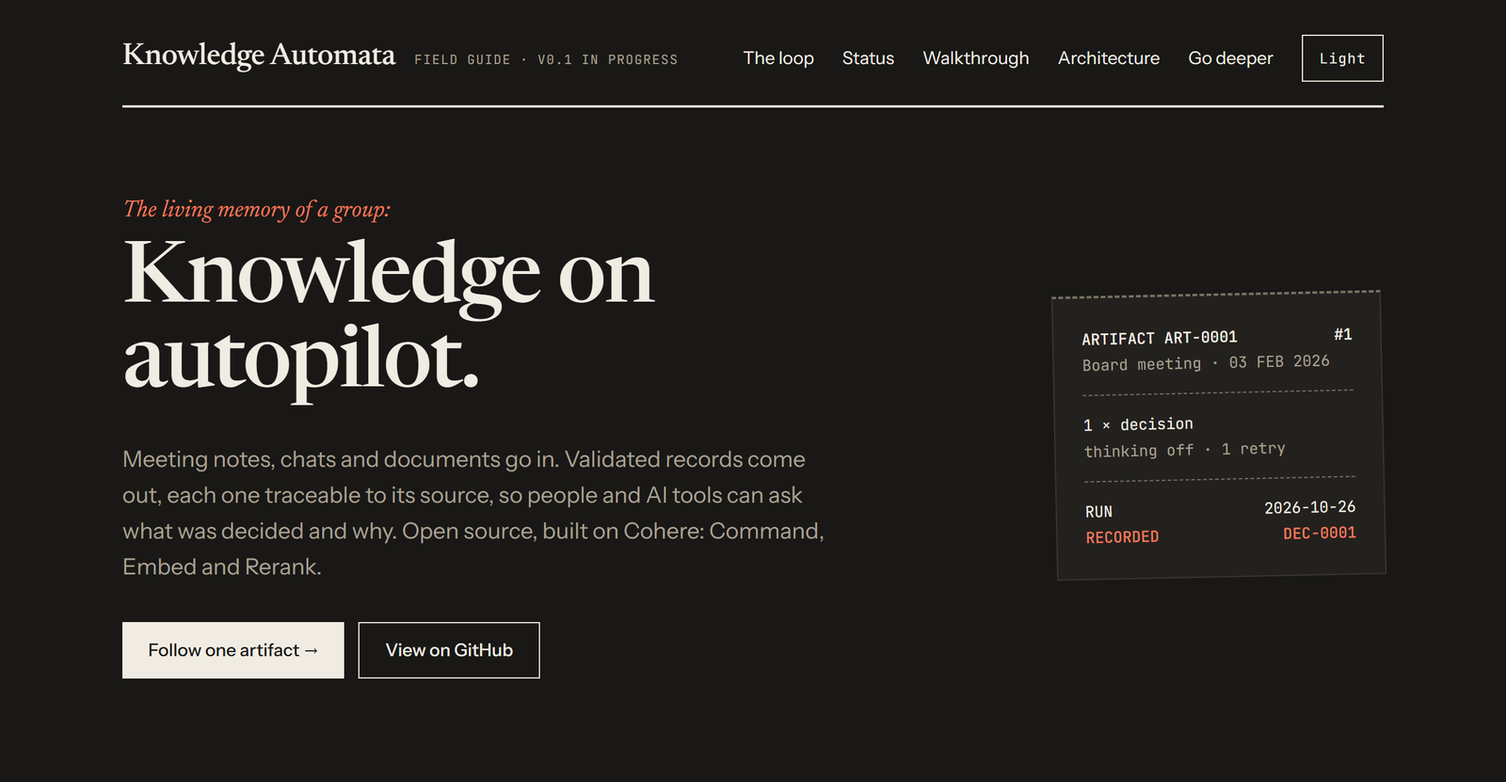
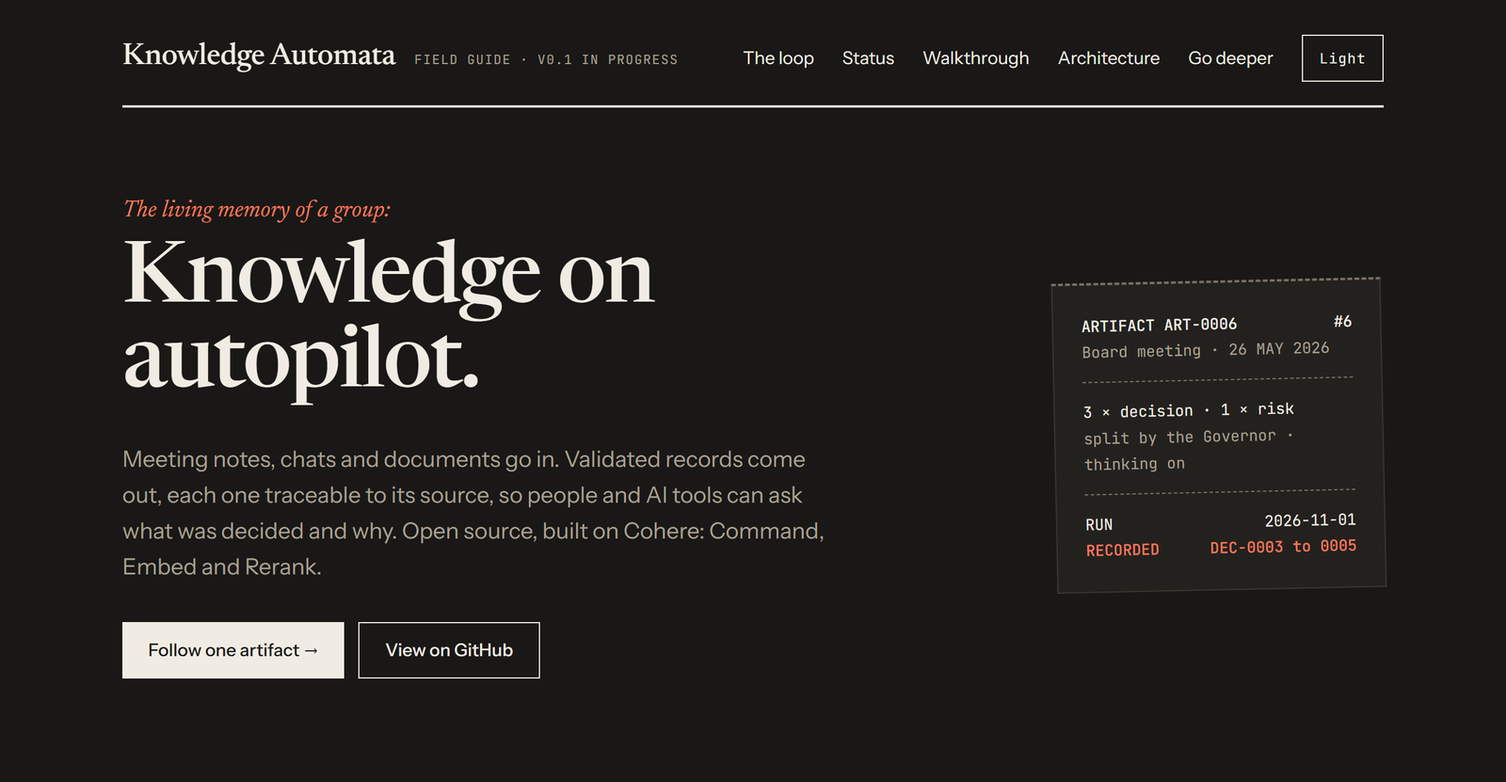
docs: retake the guide previews and update STATUS after the Governor (#16)

diff --git a/dev/STATUS.md b/dev/STATUS.md
@@ -6,7 +6,7 @@
 
 ## Current phase
 
-Handoffs 001 to 006 merged, the last as PR #11 (the Comparator, reconciliation). Handoff 007, the Governor (orchestrator), is complete on `feat/governor`, in three parts, 7A, 7B and 7C. Parts 7A and 7B are built and approved after Claude's and Miguel's reviews, each with a small fix commit, 951 tests passing offline. Part 7C, the real run on ART-0006 to ART-0008, is done and committed, and ADR-0018 is accepted. Next: Claude's review and diagram refresh, then the pull request.
+Handoffs 001 to 007 merged, the last as PR #15 (the Governor, orchestrator, squash merge `0dd0ed4`, 2026-11-01). Knowledge Automata now processes a whole meeting: the Governor finds every decision and risk, and each decision becomes a checked record. Next: handoff 008, the Risk Registrar, then the folder command, the evaluation set and the v0.1.0 release.
 
 ## Done
 
@@ -88,56 +88,57 @@ Handoffs 001 to 006 merged, the last as PR #11 (the Comparator, reconciliation).
     - Calls used: 28 of the 40 allowed (24 in the event log, 4 diagnostic). Rerank billed input tokens on every call, never search units. With thinking enabled, the Registrar used 1,519 to 1,670 output tokens per draft and the Comparator 192 to 1,149.
     - `views --check` and the full suite (733 tests) pass with the outputs committed. Tool feedback: piped output on Windows, raw versus billed input tokens, thinking length.
 
+- Handoff 007 merged as PR #15 (squash merge `0dd0ed4`, 2026-11-01), with its Copilot credits in `dev/costs.md` (2,801.6 for the three parts; 9,109.4 in total so far). Claude refreshed the diagrams (`docs/diagrams/01` to `04`, their copies in `README.md` and `docs/architecture.md`) and the guide (hero card ART-0006, the Governor built, the new figures) on the branch before the merge. How it went:
+  - Designed by Miguel and Claude on 2026-10-31 (voice session and chat) and written by Claude: `dev/handoffs/007-governor.md`, its inputs file, the prompts `governor.v1`, `governor-retry.v1` and `decision-registrar.v2`, the register definitions in `prompts/project-management/definitions/`, ADR-0018 (proposed) and an ADR-0011 amendment (a change that keeps every existing file valid is a minor schema version). Main decisions:
+    - The Governor finds decisions and risks; only decisions are sent on, and risk work orders are kept as not routed until the Risk Registrar exists.
+    - A work order is a register plus verified quotes; code builds its label from the first quote. `decision-registrar.v2` drafts the item a work order points to and carries the known prompt fixes.
+    - The checked work orders are saved per artifact before any draft (checkpointing), so a rerun after a provider error skips finished items and makes no new Governor call.
+    - `KA_GOVERNOR_MAX_ITEMS` (default 10) is a security control: above it nothing is drafted, the artifact is `held` for review, and `release` approves it.
+    - `process ARTIFACT_ID` replaces `record-decision`. No work orders means `processed` with zero records.
+    - Three parts, each ending green, so Copilot can stop after any of them while credits are low.
+  - The Governor spike (`runtime/diagnostics/spike_governor.py`, git-ignored), run by Miguel on 2026-10-31 with the real prompts, 17 calls in three rounds: every reply was valid JSON and every quote passed the evidence check. Round 1 (ART-0001 to ART-0008, and three `decision-registrar.v2` drafts) matched on 7 of 8 artifacts: ART-0004's rationale sentence came back as a second decision; the drafts invented no rationale or alternatives. A new prompt line fixed ART-0004 but dropped ART-0006's confirmation of `DEC-0003` (round 2); the narrowed line found every expected item on ART-0003, ART-0004 and ART-0006 (round 3). Details in `dev/handoffs/007-governor.md`, section 6.
+  - Part 7A, built by Copilot on 2026-11-01 after Miguel approved the plan, in five commits, 814 tests passing offline (all LLM calls faked); no pipeline, CLI or prompt change, so `record-decision` still uses `decision-registrar.v1`:
+    - Register definitions: `RegisterSpec.definition` names a versioned prompt file; both project-management registers point to theirs.
+    - The Governor reply schema (`schemas/core/governor-reply.v1.json`, the register enum set by `governor_schema`) and `validate_work_orders`: schema, every quote checked against the artifact, and no quote shared by two items of the same register (text-based, one quote containing another counts, so a decision repeated in a summary is caught).
+    - `core/work_orders.py`: `WorkOrder`, sorting by the earliest quote position in the artifact, numbering from 1, and `placeholder_label` (the first-listed quote, cut at a word boundary to at most 60 characters, plus `...`).
+    - `agents/checked_chat.py`: the call, check and retry loop, shared by the Registrars and the Governor. `tests/test_registrar.py` passes unchanged, and each attempt keeps its prompt version in `CallContext` as before. The Comparator keeps its own loop (technical debt).
+    - `agents/governor.py`: the Governor builds its system text by replacing `{registers}` with one block per register definition, and refuses a setup without the placeholder, a register without a definition, or a definition that does not match its spec. `find_work_orders` checks the artifact, calls once, retries once with the errors, and returns sorted work orders.
+    - The Decision Registrar with a work order: the user message adds the work order as JSON between `<work-order>` lines (every `<` escaped), and `validate_draft` requires a passing quote that matches a work order quote. Without a work order the message is byte-for-byte unchanged. A work order for another register is refused before any call.
+    - Review fixes (2026-11-01, one commit, 825 tests): a Governor reply over the schema's sanity bound of 100 items is reported as one short error (`$.items: 101 items, at most 100`) instead of jsonschema's message, which copied the whole reply into the errors and the retry prompt; a Registrar's prompt and work order mode go together (`Registrar.takes_work_order`), so giving a work order to `decision-registrar.v1`, or none to `v2`, raises before any call; a test pins the whole user message with a work order, including the `\u003c` escape; the Governor refuses an empty definition; `placeholder_label` strips surrounding quote marks, straight and typographic.
+  - Part 7B, built by Copilot on 2026-11-01 after Miguel approved the plan, in six commits, 949 tests passing offline (all LLM calls faked):
+    - Ledger entry schema 1.2: the `held` status (by `governor`; released to `accepted` by `operator`), a `run_id` on `processed`, `failed` and `held` steps, a `governor` block (model, prompt and definition versions, attempts, run ID, work orders per register, routed or not), and `work_order` on produced and rejected items. Every transition the pipeline makes is now by `governor`; `pipeline` stays valid in existing history. `failed` may list the records produced before the error. A later run keeps the existing `produced` and `rejected` items in place and appends new ones, and the store refuses a `failed` entry whose new `produced` list does not start with the old one. 1.0 and 1.1 entries still validate.
+    - The work orders file (`work-orders/<ID>.json`, `schemas/core/work-orders.v1.json`, `storage/work_order_store.py`): the run ID, `max_items` as it was, the Governor's versions and attempts, and each order with its state (`pending`, `recorded`, `rejected`, `not-routed`) and results. A recorded order may also carry a rejected list (rejected first, recorded on a rerun). The store refuses a stale file, changed evidence and a change to a `recorded` order.
+    - `process ARTIFACT_ID` replaces `record-decision`. The Governor runs once; its checked orders are saved before any draft; each routed order is drafted with `decision-registrar.v2`, compared and written, then its result is saved in the file (records, views, then the file); the Ledger is written at the end, its lists rebuilt from the file. A rerun reuses the file with no Governor call: from `accepted` only `pending` orders run, from `failed` or `processed` also `rejected` ones. Before any call, records ahead of the file (a crash after the records and before the order's result) are detected by the history count, and a Ledger left behind the file is rebuilt with no call. Exit codes: 0 when nothing is held or left rejected, 1 for held or a rejection, 2 for usage problems, 3 for a provider error.
+    - `KA_GOVERNOR_MAX_ITEMS` (default 10, `core/settings.py` shares the whole-number reader with the Comparator): more routed orders than the file's own `max_items`, and no order started, holds the artifact with no draft. `release` makes a held artifact `accepted` by `operator`, with no Sensor check and no read of its copy; the release covers only the file whose `run_id` was held.
+    - The `record-decision` tests moved to `tests/test_process.py`, with the section 5 scenarios added (several orders per artifact, interrupted runs, holds and releases).
+    - Docs: ADR-0006 and ADR-0015 amended, the architecture and README text, and the backlog. The Mermaid blocks still say `record-decision` and "planned Governor": Claude refreshes them.
+    - Review fixes (2026-11-01, one commit, 951 tests), from Claude's review of 7B:
+      - A rebuild of the Ledger from the work orders file exits 1, not 0, when an order is still rejected, by the same rule as a normal run.
+      - Without a work orders file, `process` refuses before any call when the Ledger entry shows a Governor run (records produced, a `governor` block, or a rejected item with `work_order`): "the work orders file is missing; restore it". A new Governor call could find other orders and record items twice. So deleting the file by hand after a release no longer leads to a new Governor run; the rule that a release covers only the file whose `run_id` was held stays, tested on `needs_hold`.
+      - The CLI docstring now says that rejected attempts print their validation errors, which may quote model output; the messages are unchanged, and a Later item in the backlog proposes printing paths and checks only.
+      - Stronger tests: the output hygiene test reaches a real hold and a Governor rejection on fresh artifacts, and removes a label only from its work order heading; the billing test runs two comparisons and checks every stage's totals against the event log.
+  - Part 7C, the real run, with Miguel's go on 2026-11-01. The three inbox files matched their SHA-256; ingest accepted ART-0006 to ART-0008 (no calls). Each artifact was processed with `process` and reported before the next one; outputs committed unedited (`feat: process ART-0006 to ART-0008 in the sample project`), details and tables in `examples/sample-project/README.md`.
+    - Timeouts first: `process ART-0006` stopped twice at the Governor call, which returned nothing within 60 s (run `19abb35e-b01e-4322-87ec-eef4d057be8b`) and then 180 s (`KA_LLM_TIMEOUT_SECONDS=180`, run `e8083665-5a93-415f-b341-3da571628b92`), about 12 minutes apart, with no incident on Cohere's status page. Both left ART-0006 `failed`, with nothing written.
+    - Diagnostic, with Miguel's go (throwaway scripts in `runtime/diagnostics/`, git-ignored): offline, the pipeline's Governor request matched the spike's except for the schema's top-level title and description, which the Registrar requests also send. Then 2 calls through the adapter only, outside the event log: a connectivity check (2.7 s, billed 13 input and 167 output tokens) and the same Governor request with a 600 s timeout (18.3 s, billed 1,267 input and 2,882 output tokens, 2,679 reasoning tokens; accepted, 4 work orders). Most likely a temporary slowdown at Cohere or on the network.
+    - Then, with `KA_LLM_TIMEOUT_SECONDS=180` for the rest of the run (environment only):
+      - ART-0006 (run `23feff57-1c1d-4cb7-83b7-107f174fd8c3`, 16 calls): 3 decision and 1 risk work orders, as expected. `DEC-0003` updated to revision 2 with no field filled (expected a reaffirmation: the known borderline), new `DEC-0004` (no rationale or alternatives, `decided_by` "the board") and `DEC-0005`, the risk not routed. Governor 17.4 s.
+      - ART-0007 (run `98b81324-173e-4c44-9e4c-43919265e5c0`, 17 calls): one work order per decision despite the summary section, each quoting both places. `DEC-0004` updated to revision 2 with rationale and alternatives (NFC), and also `decided_on` 2026-06-09, the tech sync's date instead of the board's 2026-05-26 (a finding); `DEC-0006` supersedes `DEC-0005`; new `DEC-0007`, whose draft needed the retry; the risk not routed. Governor 14.5 s; the slowest draft 27.0 s.
+      - ART-0008 (run `9e94307b-9b47-4a44-a7e1-8138cd6565c0`, 1 call): `processed` with zero records and an empty work orders file. Governor 2.8 s.
+    - Calls: 38 of the 50 allowed (36 in the event log, 2 diagnostic). Every Governor reply passed on the first attempt; nothing was rejected. `views --check`, ruff and the full suite (951 tests) pass with the outputs committed.
+    - Docs: ADR-0018 accepted; the sample project README; tool feedback on the timeouts; backlog items for the update that fills nothing, the wrong `decided_on`, the failed attempt that left no trace and the timeout (with the latencies); the held-split item now says that splitting again is not possible yet and that deleting the work orders file is refused on purpose.
+- Guide preview screenshots retaken after the Governor, and this status updated (Miguel and Claude, 2026-11-01, on `docs/guide-previews`).
+
 ## In progress
 
-- Handoff 007, the Governor (orchestrator), designed by Miguel and Claude on 2026-10-31 (voice session and chat) and written by Claude: `dev/handoffs/007-governor.md`, its inputs file, the prompts `governor.v1`, `governor-retry.v1` and `decision-registrar.v2`, the register definitions in `prompts/project-management/definitions/`, ADR-0018 (proposed) and an ADR-0011 amendment (a change that keeps every existing file valid is a minor schema version). Main decisions:
-  - The Governor finds decisions and risks; only decisions are sent on, and risk work orders are kept as not routed until the Risk Registrar exists.
-  - A work order is a register plus verified quotes; code builds its label from the first quote. `decision-registrar.v2` drafts the item a work order points to and carries the known prompt fixes.
-  - The checked work orders are saved per artifact before any draft (checkpointing), so a rerun after a provider error skips finished items and makes no new Governor call.
-  - `KA_GOVERNOR_MAX_ITEMS` (default 10) is a security control: above it nothing is drafted, the artifact is `held` for review, and `release` approves it.
-  - `process ARTIFACT_ID` replaces `record-decision`. No work orders means `processed` with zero records.
-  - Three parts, each ending green, so Copilot can stop after any of them while credits are low.
-- The Governor spike (`runtime/diagnostics/spike_governor.py`, git-ignored), run by Miguel on 2026-10-31 with the real prompts, 17 calls in three rounds: every reply was valid JSON and every quote passed the evidence check. Round 1 (ART-0001 to ART-0008, and three `decision-registrar.v2` drafts) matched on 7 of 8 artifacts: ART-0004's rationale sentence came back as a second decision; the drafts invented no rationale or alternatives. A new prompt line fixed ART-0004 but dropped ART-0006's confirmation of `DEC-0003` (round 2); the narrowed line found every expected item on ART-0003, ART-0004 and ART-0006 (round 3). Details in `dev/handoffs/007-governor.md`, section 6.
-- Part 7A, built by Copilot on 2026-11-01 after Miguel approved the plan, in five commits, 814 tests passing offline (all LLM calls faked); no pipeline, CLI or prompt change, so `record-decision` still uses `decision-registrar.v1`:
-  - Register definitions: `RegisterSpec.definition` names a versioned prompt file; both project-management registers point to theirs.
-  - The Governor reply schema (`schemas/core/governor-reply.v1.json`, the register enum set by `governor_schema`) and `validate_work_orders`: schema, every quote checked against the artifact, and no quote shared by two items of the same register (text-based, one quote containing another counts, so a decision repeated in a summary is caught).
-  - `core/work_orders.py`: `WorkOrder`, sorting by the earliest quote position in the artifact, numbering from 1, and `placeholder_label` (the first-listed quote, cut at a word boundary to at most 60 characters, plus `...`).
-  - `agents/checked_chat.py`: the call, check and retry loop, shared by the Registrars and the Governor. `tests/test_registrar.py` passes unchanged, and each attempt keeps its prompt version in `CallContext` as before. The Comparator keeps its own loop (technical debt).
-  - `agents/governor.py`: the Governor builds its system text by replacing `{registers}` with one block per register definition, and refuses a setup without the placeholder, a register without a definition, or a definition that does not match its spec. `find_work_orders` checks the artifact, calls once, retries once with the errors, and returns sorted work orders.
-  - The Decision Registrar with a work order: the user message adds the work order as JSON between `<work-order>` lines (every `<` escaped), and `validate_draft` requires a passing quote that matches a work order quote. Without a work order the message is byte-for-byte unchanged. A work order for another register is refused before any call.
-  - Review fixes (2026-11-01, one commit, 825 tests): a Governor reply over the schema's sanity bound of 100 items is reported as one short error (`$.items: 101 items, at most 100`) instead of jsonschema's message, which copied the whole reply into the errors and the retry prompt; a Registrar's prompt and work order mode go together (`Registrar.takes_work_order`), so giving a work order to `decision-registrar.v1`, or none to `v2`, raises before any call; a test pins the whole user message with a work order, including the `\u003c` escape; the Governor refuses an empty definition; `placeholder_label` strips surrounding quote marks, straight and typographic.
-
-- Part 7B, built by Copilot on 2026-11-01 after Miguel approved the plan, in six commits, 949 tests passing offline (all LLM calls faked):
-  - Ledger entry schema 1.2: the `held` status (by `governor`; released to `accepted` by `operator`), a `run_id` on `processed`, `failed` and `held` steps, a `governor` block (model, prompt and definition versions, attempts, run ID, work orders per register, routed or not), and `work_order` on produced and rejected items. Every transition the pipeline makes is now by `governor`; `pipeline` stays valid in existing history. `failed` may list the records produced before the error. A later run keeps the existing `produced` and `rejected` items in place and appends new ones, and the store refuses a `failed` entry whose new `produced` list does not start with the old one. 1.0 and 1.1 entries still validate.
-  - The work orders file (`work-orders/<ID>.json`, `schemas/core/work-orders.v1.json`, `storage/work_order_store.py`): the run ID, `max_items` as it was, the Governor's versions and attempts, and each order with its state (`pending`, `recorded`, `rejected`, `not-routed`) and results. A recorded order may also carry a rejected list (rejected first, recorded on a rerun). The store refuses a stale file, changed evidence and a change to a `recorded` order.
-  - `process ARTIFACT_ID` replaces `record-decision`. The Governor runs once; its checked orders are saved before any draft; each routed order is drafted with `decision-registrar.v2`, compared and written, then its result is saved in the file (records, views, then the file); the Ledger is written at the end, its lists rebuilt from the file. A rerun reuses the file with no Governor call: from `accepted` only `pending` orders run, from `failed` or `processed` also `rejected` ones. Before any call, records ahead of the file (a crash after the records and before the order's result) are detected by the history count, and a Ledger left behind the file is rebuilt with no call. Exit codes: 0 when nothing is held or left rejected, 1 for held or a rejection, 2 for usage problems, 3 for a provider error.
-  - `KA_GOVERNOR_MAX_ITEMS` (default 10, `core/settings.py` shares the whole-number reader with the Comparator): more routed orders than the file's own `max_items`, and no order started, holds the artifact with no draft. `release` makes a held artifact `accepted` by `operator`, with no Sensor check and no read of its copy; the release covers only the file whose `run_id` was held.
-  - The `record-decision` tests moved to `tests/test_process.py`, with the section 5 scenarios added (several orders per artifact, interrupted runs, holds and releases).
-  - Docs: ADR-0006 and ADR-0015 amended, the architecture and README text, and the backlog. The Mermaid blocks still say `record-decision` and "planned Governor": Claude refreshes them.
-  - Review fixes (2026-11-01, one commit, 951 tests), from Claude's review of 7B:
-    - A rebuild of the Ledger from the work orders file exits 1, not 0, when an order is still rejected, by the same rule as a normal run.
-    - Without a work orders file, `process` refuses before any call when the Ledger entry shows a Governor run (records produced, a `governor` block, or a rejected item with `work_order`): "the work orders file is missing; restore it". A new Governor call could find other orders and record items twice. So deleting the file by hand after a release no longer leads to a new Governor run; the rule that a release covers only the file whose `run_id` was held stays, tested on `needs_hold`.
-    - The CLI docstring now says that rejected attempts print their validation errors, which may quote model output; the messages are unchanged, and a Later item in the backlog proposes printing paths and checks only.
-    - Stronger tests: the output hygiene test reaches a real hold and a Governor rejection on fresh artifacts, and removes a label only from its work order heading; the billing test runs two comparisons and checks every stage's totals against the event log.
-
-- Part 7C, the real run, with Miguel's go on 2026-11-01. The three inbox files matched their SHA-256; ingest accepted ART-0006 to ART-0008 (no calls). Each artifact was processed with `process` and reported before the next one; outputs committed unedited (`feat: process ART-0006 to ART-0008 in the sample project`), details and tables in `examples/sample-project/README.md`.
-  - Timeouts first: `process ART-0006` stopped twice at the Governor call, which returned nothing within 60 s (run `19abb35e-b01e-4322-87ec-eef4d057be8b`) and then 180 s (`KA_LLM_TIMEOUT_SECONDS=180`, run `e8083665-5a93-415f-b341-3da571628b92`), about 12 minutes apart, with no incident on Cohere's status page. Both left ART-0006 `failed`, with nothing written.
-  - Diagnostic, with Miguel's go (throwaway scripts in `runtime/diagnostics/`, git-ignored): offline, the pipeline's Governor request matched the spike's except for the schema's top-level title and description, which the Registrar requests also send. Then 2 calls through the adapter only, outside the event log: a connectivity check (2.7 s, billed 13 input and 167 output tokens) and the same Governor request with a 600 s timeout (18.3 s, billed 1,267 input and 2,882 output tokens, 2,679 reasoning tokens; accepted, 4 work orders). Most likely a temporary slowdown at Cohere or on the network.
-  - Then, with `KA_LLM_TIMEOUT_SECONDS=180` for the rest of the run (environment only):
-    - ART-0006 (run `23feff57-1c1d-4cb7-83b7-107f174fd8c3`, 16 calls): 3 decision and 1 risk work orders, as expected. `DEC-0003` updated to revision 2 with no field filled (expected a reaffirmation: the known borderline), new `DEC-0004` (no rationale or alternatives, `decided_by` "the board") and `DEC-0005`, the risk not routed. Governor 17.4 s.
-    - ART-0007 (run `98b81324-173e-4c44-9e4c-43919265e5c0`, 17 calls): one work order per decision despite the summary section, each quoting both places. `DEC-0004` updated to revision 2 with rationale and alternatives (NFC), and also `decided_on` 2026-06-09, the tech sync's date instead of the board's 2026-05-26 (a finding); `DEC-0006` supersedes `DEC-0005`; new `DEC-0007`, whose draft needed the retry; the risk not routed. Governor 14.5 s; the slowest draft 27.0 s.
-    - ART-0008 (run `9e94307b-9b47-4a44-a7e1-8138cd6565c0`, 1 call): `processed` with zero records and an empty work orders file. Governor 2.8 s.
-  - Calls: 38 of the 50 allowed (36 in the event log, 2 diagnostic). Every Governor reply passed on the first attempt; nothing was rejected. `views --check`, ruff and the full suite (951 tests) pass with the outputs committed.
-  - Docs: ADR-0018 accepted; the sample project README; tool feedback on the timeouts; backlog items for the update that fills nothing, the wrong `decided_on`, the failed attempt that left no trace and the timeout (with the latencies); the held-split item now says that splitting again is not possible yet and that deleting the work orders file is refused on purpose.
+None.
 
 ## Next
 
-- An evaluation harness grown from the spike, as a small step after handoff 007 (backlog).
-- Claude reviews part 7C; Miguel opens the pull request for handoff 007 and adds its Copilot credits to `dev/costs.md`.
-- Claude: refresh the diagrams (`docs/diagrams/01`, `03` and `04`, and their copies in the README and `docs/architecture.md`) and the guide for the Governor and `process`.
-- Claude: the visual guide still says "thinking off" (`docs/guide/index.html`, line 178); refresh it with the guide steps, together with the 007 diagrams.
-- Enable GitHub Pages in the repository settings, if not done yet, and mark ADR-0016 accepted once the guide is online.
-- After the Governor: the Risk Registrar, the folder command, the sample project as an evaluation set, and the v0.1.0 release (see `dev/backlog.md`).
+- Handoff 008, the Risk Registrar: record the risks the Governor already finds (today they are kept as not routed).
+- An evaluation harness grown from the Governor spike (backlog), then the sample project as an evaluation set, so prompt changes are measured. It also judges the real-run findings in the backlog: an update that fills nothing, the wrong `decided_on`, and per-agent timeouts.
+- The folder command: process every accepted artifact in a folder.
+- The v0.1.0 release. ADR-0010 promises an SBOM with every release: keep it, or amend the ADR first.
+- GitHub Pages now publishes the guide: mark ADR-0016 accepted.
 - A mise-en-place v0.2 brief (screen theme, Mermaid font fix, sequence diagram pattern) runs in its own chat; the guide moves to those tokens when it ships.
 
 ## Blockers

diff --git a/dev/tool-feedback.md b/dev/tool-feedback.md
@@ -222,3 +222,8 @@ Suggested improvement: none for Cohere after all. Its responses already report r
 
 Note: in the handoff 007 real run, two Governor (orchestrator) calls on ART-0006 returned nothing within 60 s (the default `KA_LLM_TIMEOUT_SECONDS`) and then 180 s, about 12 minutes apart, with no incident on Cohere's status page. Neither returned tokens, and both left ART-0006 `failed` with `LLMUnavailableError`. A throwaway diagnostic then made two calls through the adapter only, outside the event log: a tiny connectivity check (2.7 s, billed 13 input and 167 output tokens) and the same Governor request, built with the pipeline's own code, with a 600 s timeout. That request took 18.3 s (billed 1,267 input and 2,882 output tokens, 2,679 of them reasoning tokens, about 150 tokens per second) and its reply was accepted with 4 work orders. An offline comparison had already shown that the request was the same as in the Governor spike of 2026-10-31, except for the schema's top-level title and description, which the faster Registrar requests also send. In the run that followed, with a 180 s timeout, the Governor took 17.4 s, 14.5 s and 2.8 s on the three artifacts, and the slowest Decision Registrar draft 27.0 s. So 4 calls were spent before the first `process` run of ART-0006 succeeded: 2 timed out and 2 were diagnostic. The most likely cause is a temporary slowdown at Cohere or on the network; there is no way to tell which from our side.
 Suggested improvement: a slow request with no error and no status incident is hard to tell apart from a hung one. Streaming, or a documented latency range for reasoning models, would help clients choose a timeout. For us, a higher or per-agent timeout is a backlog item.
+
+### 2026-11-01: Claude file bridge to the local computer (confusing, cause found)
+
+Note: the cause of the 2026-10-28 entry. The bridge does not re-encode PNG files: it inserts one signed `caBX` chunk (C2PA Content Credentials, about 5.8 KB, "Claude provided this file at the request of a user", signed by Anthropic) right after the header, and keeps every other chunk byte for byte. Found when the guide previews were retaken after handoff 007: the SHA-256 differed again, the pixels matched, and comparing the chunks showed the one added chunk. It holds no personal data.
+Suggested improvement (Claude): say in the bridge's documentation or result that images get a Content Credentials label, so a hash check that fails is expected. For us: verify images by pixels (or by every chunk except `caBX`), text files by hash.
